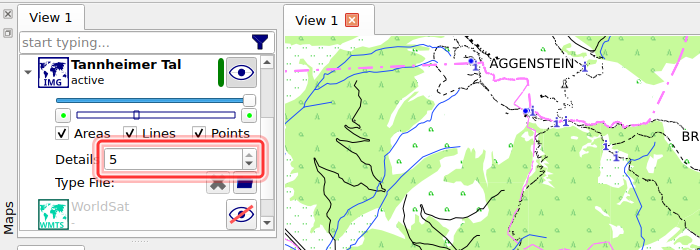
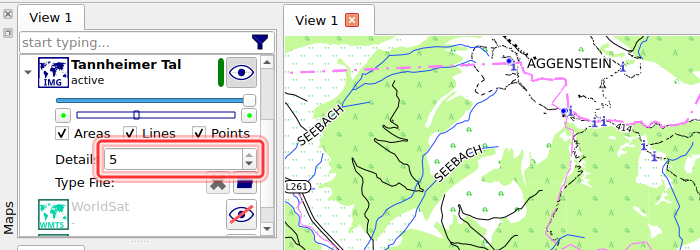
[QMS-1350] Garmin maps: short road names when zoomed out

Changed region(s): [[0.03, 0.14, 1.0, 1.0], [0.99, 0.364, 1.0, 0.42], [0.93, 0.364, 0.96, 0.42]]

diff --git a/src/qmapshack/map/CMapIMG.cpp b/src/qmapshack/map/CMapIMG.cpp
@@ -44,8 +44,10 @@
 #undef DEBUG_SHOW_SECTION_BORDERS
 #undef DEBUG_SHOW_SUBDIV_BORDERS
 
-/// Maximum map scale [m/px] at which street / way names are still drawn.
-constexpr qreal kStreetNameThreshold = 5.0;
+/** Map scale [m/px] from which line labels are drawn short, without prefix and suffix, as BaseCamp does. */
+constexpr qreal kShortLabelThreshold = 5.0;
+/** Maximum map scale [m/px] at which line labels are drawn; BaseCamp still draws them at its 5 km scale bar. */
+constexpr qreal kLineLabelThreshold = 50.0;
 /// Largest bend [deg] between two segments a street name may follow.
 constexpr qreal kLabelMaxBend = 30.0;
 /// Street names this close [deg] to vertical keep the direction of their line; all others read left to right.
@@ -1110,7 +1112,7 @@ void CMapIMG::drawPolylines(BLContext& ctx, polytype_t& lines, const QPointF& sc
             v1 = v2;
           }
 
-          if (scale.x() < kStreetNameThreshold && property.labelType != CGarminTyp::eNone) {
+          if (scale.x() < kLineLabelThreshold && property.labelType != CGarminTyp::eNone) {
             QFont f(font);
             switch (property.labelType) {
               case CGarminTyp::eSmall:
@@ -1122,7 +1124,8 @@ void CMapIMG::drawPolylines(BLContext& ctx, polytype_t& lines, const QPointF& sc
               default:;
             }
 
-            collectText(item, poly, f, night ? property.colorLabelNight : property.colorLabelDay);
+            collectText(item, poly, f, night ? property.colorLabelNight : property.colorLabelDay,
+                        scale.x() >= kShortLabelThreshold);
           }
 
           // Lay the pixmap along each straight segment of the polyline. The arc-length
@@ -1210,7 +1213,7 @@ void CMapIMG::drawLine(BLContext& ctx, CGarminPolygon& l, bool stroke, const CGa
 
   map->convertRad2Px(poly);
 
-  if (scale.x() < kStreetNameThreshold && property.labelType != CGarminTyp::eNone) {
+  if (scale.x() < kLineLabelThreshold && property.labelType != CGarminTyp::eNone) {
     QFont f(font);
     switch (property.labelType) {
       case CGarminTyp::eSmall:
@@ -1222,7 +1225,8 @@ void CMapIMG::drawLine(BLContext& ctx, CGarminPolygon& l, bool stroke, const CGa
       default:;
     }
 
-    collectText(l, poly, f, CMainWindow::self().isNight() ? property.colorLabelNight : property.colorLabelDay);
+    collectText(l, poly, f, CMainWindow::self().isNight() ? property.colorLabelNight : property.colorLabelDay,
+                scale.x() >= kShortLabelThreshold);
   }
 
   if (stroke) {
@@ -1239,10 +1243,16 @@ void CMapIMG::drawLine(BLContext& ctx, const CGarminPolygon& l) {
   ctx.stroke_polyline(toBLPoints(poly), static_cast<size_t>(poly.size()));
 }
 
-void CMapIMG::collectText(const CGarminPolygon& item, const QPolygonF& line, const QFont& font, const QColor& color) {
+void CMapIMG::collectText(const CGarminPolygon& item, const QPolygonF& line, const QFont& font, const QColor& color,
+                          bool shortName) {
+  // BaseCamp leaves minor contours and boundaries unlabelled zoomed out
+  if (shortName && (item.type == 0x20 || item.type == 0x1c)) {
+    return;
+  }
+
   QString str;
   if (item.hasLabel()) {
-    str = item.getLabelText();
+    str = shortName ? item.getShortText() : item.getLabelText();
   }
 
   if (str.isEmpty()) {

diff --git a/src/qmapshack/map/garmin/test/test_CGarminImg.cpp b/src/qmapshack/map/garmin/test/test_CGarminImg.cpp
@@ -53,6 +53,9 @@ class test_CGarminImg : public QObject {
   void displayText();
   void shieldCode_data();
   void shieldCode();
+  void shortText_data();
+  void shortText();
+  void shortTextOfLine();
   void splitHeight_data();
   void splitHeight();
   void typStyles();
@@ -419,6 +422,37 @@ void test_CGarminImg::displayText() {
   QFETCH(QString, label);
   QFETCH(QString, text);
   QCOMPARE(IGarminStrTbl::displayText(label), text);
+}
+
+void test_CGarminImg::shortText_data() {
+  QTest::addColumn<QString>("label");
+  QTest::addColumn<QString>("text");
+
+  // As BaseCamp 4.7.5 shows these labels zoomed out.
+  QTest::newRow("plain") << "Plain Road" << "Plain Road";
+  QTest::newRow("prefix 0x1b") << unescape("Rue d'~[0x1b]Alsace") << "Alsace";
+  QTest::newRow("prefix 0x1e") << unescape("Rue de la~[0x1e]Concorde") << "Concorde";
+  QTest::newRow("suffix 0x1c") << unescape("Haupt~[0x1c]strasse") << "Haupt";
+  QTest::newRow("suffix 0x1f") << unescape("Main~[0x1f]Street") << "Main";
+  QTest::newRow("both, blanks") << unescape("West~[0x1e]Lincoln~[0x1f]Road") << "Lincoln";
+  QTest::newRow("both") << unescape("Carrer d'~[0x1b]Europa~[0x1c]kalea") << "Europa";
+  QTest::newRow("0x1d") << unescape("Alpha~[0x1d]Beta") << "Alpha";
+  QTest::newRow("shield") << unescape("~[0x04]A7") << "A7";
+  QTest::newRow("empty core") << unescape("~[0x1f]Street") << "Street";
+}
+
+void test_CGarminImg::shortText() {
+  QFETCH(QString, label);
+  QFETCH(QString, text);
+  QCOMPARE(IGarminStrTbl::shortText(label), text);
+}
+
+void test_CGarminImg::shortTextOfLine() {
+  CGarminPolygon line;
+  line.type = 0x06;
+  QCOMPARE(line.getShortText(), QString());
+  line.labels << unescape("West~[0x1e]Lincoln~[0x1f]Road") << "Second";
+  QCOMPARE(line.getShortText(), QString("Lincoln"));
 }
 
 void test_CGarminImg::shieldCode_data() {

diff --git a/src/qmapshack/map/garmin/IGarminStrTbl.cpp b/src/qmapshack/map/garmin/IGarminStrTbl.cpp
@@ -200,6 +200,32 @@ QString IGarminStrTbl::displayText(const QString& label) {
   return text;
 }
 
+QString IGarminStrTbl::shortText(const QString& label) {
+  const QString text = label.left(label.indexOf(QChar(0x1d)));
+  // mkgmap writes at most one prefix and one suffix marker; the core lies between them
+  qsizetype start = 0;
+  for (qsizetype i = 0; i < text.size(); ++i) {
+    const char16_t c = text[i].unicode();
+    if (c == 0x1c || c == 0x1f) {
+      break;
+    }
+    if (c == 0x1b || c == 0x1e) {
+      start = i + 1;
+    }
+  }
+  qsizetype end = text.size();
+  for (qsizetype i = start; i < text.size(); ++i) {
+    const char16_t c = text[i].unicode();
+    if (c == 0x1c || c == 0x1f) {
+      end = i;
+      break;
+    }
+  }
+  const QString core = displayText(text.mid(start, end - start));
+  // markers around nothing: keep the whole label rather than none
+  return core.trimmed().isEmpty() ? displayText(label).trimmed() : core;
+}
+
 quint8 IGarminStrTbl::shieldCode(const QString& label) {
   if (label.isEmpty()) {
     return 0;

diff --git a/src/qmapshack/map/CMapIMG.h b/src/qmapshack/map/CMapIMG.h
@@ -88,7 +88,8 @@ class CMapIMG : public IMap {
                 const QFont& font, const QPointF& scale);
   void drawLine(BLContext& ctx, const CGarminPolygon& l);
 
-  void collectText(const CGarminPolygon& item, const QPolygonF& line, const QFont& font, const QColor& color);
+  void collectText(const CGarminPolygon& item, const QPolygonF& line, const QFont& font, const QColor& color,
+                   bool shortName);
 
   void getInfoPoints(const pointtype_t& points, const QPoint& pt, QMultiMap<QString, QString>& dict) const;
   void getInfoPolylines(const QPoint& pt, QMultiMap<QString, QString>& dict) const;

diff --git a/src/qmapshack/map/garmin/IGarminStrTbl.h b/src/qmapshack/map/garmin/IGarminStrTbl.h
@@ -69,6 +69,11 @@ class IGarminStrTbl : public QObject {
      @return 0x01 interstate, 0x02 shield, 0x03 round, 0x04 hbox, 0x05 box, 0x06 oval, 0 none
    */
   static quint8 shieldCode(const QString& label);
+  /**
+     @brief The label as BaseCamp shows it zoomed out: only the part between prefix (0x1b/0x1e) and suffix (0x1c/0x1f)
+            marker, "Rue de la Concorde" as "Concorde". A label without markers stays whole.
+   */
+  static QString shortText(const QString& label);
   /** displayText() of each label, joined by a blank. */
   static QString displayText(const QStringList& labels);
 

diff --git a/src/qmapshack/map/garmin/CGarminPolygon.cpp b/src/qmapshack/map/garmin/CGarminPolygon.cpp
@@ -414,6 +414,25 @@ QString CGarminPolygon::getLabelText() const {
   return str;
 }
 
+QString CGarminPolygon::getShortText() const {
+  if (labels.isEmpty()) {
+    return QString();
+  }
+  switch (type) {
+    case 0x20:
+    case 0x21:
+    case 0x22:
+    case 0x23:
+    case 0x24:
+    case 0x25:
+      // contours: their height
+      return getLabelText();
+
+    default:
+      return IGarminStrTbl::shortText(labels.first()).simplified();
+  }
+}
+
 QString CGarminPolygon::getInfoText() const {
   if (labels.size() < 2) {
     return getLabelText();

diff --git a/src/qmapshack/map/garmin/CGarminPolygon.h b/src/qmapshack/map/garmin/CGarminPolygon.h
@@ -45,6 +45,8 @@ class CGarminPolygon {
 
   /** The first label as drawn on the map, a contour's height converted from feet. */
   QString getLabelText() const;
+  /** The first label without prefix and suffix, as drawn zoomed out; a contour's height. */
+  QString getShortText() const;
   /** All labels, as listed in the map's info: a road can have up to 4. */
   QString getInfoText() const;
 

diff --git a/.notes/QMS-1350-short-road-names-plan.md b/.notes/QMS-1350-short-road-names-plan.md
@@ -1,0 +1,123 @@
+# QMS-1350 — hide prefix and suffix of road names when zoomed out
+
+Ticket: QMS-#1350, parent QMS-#1343. Branch `QMS-1350` from `dev` at `6feba1acf`. Development ticket: no
+`changelog.txt` line; PR to `dev` only when complete. Separator facts: `QMS-1347-label-decoding-plan.md`, "What the
+separators do".
+
+## State (2026-11-27)
+
+Decided (2026-11-27): line labels are drawn up to 50 m/px (BaseCamp: still at the 5 km bar); from 5 m/px on as short
+names. Below 5 m/px unchanged.
+
+Done (2026-11-27): committed as `[QMS-1350] Garmin maps: short road names when zoomed out`. Remaining:
+3. The user pushes (`git push` is refused to Claude): `git -C ~/projects/qmapshack push -u origin QMS-1350`.
+4. `gh pr create -R Maproom/qmapshack -B dev -H kiozen:QMS-1350 --title "[QMS-1350] Garmin maps: hide prefix and
+   suffix of road names when zoomed out" --body-file <the PR body below>`.
+5. After the merge: close QMS-#1350, fast-forward local `dev` to `upstream/dev`.
+Test maps: `make_fixtures.py <mkgmap r4924 jar> <dir>`; the session's were in a scratchpad that may be gone.
+
+What was done:
+- `IGarminStrTbl::shortText()`: after the last prefix marker (0x1b/0x1e) before a suffix marker, up to the next suffix
+  marker (0x1c/0x1f), through `displayText()`. `CGarminPolygon::getShortText()`: that of label 1, a contour's height.
+- `CMapIMG`: `kLineLabelThreshold` 50 m/px for line labels at all; from `kShortLabelThreshold` 5 m/px `collectText()`
+  takes the short text and skips minor contours 0x20 and boundaries 0x1c (unlabelled in BaseCamp zoomed out).
+- Verified: `test_CGarminImg` 58/58 (9 `shortText` rows = BaseCamp's results), `ctest` 5/5, Clang-Tidy/Clazy clean but
+  `#pragma pack`. GUI (separator map): full names at 300 m, short at 500 m and 1 km.
+- Documentation: `quickstart-vector-map-detail-more.png` changed (the Tannheimer map gains SEEBACH, L261, a contour
+  height at that zoom); taken again and published in de/en/es/it (`shots.py -o doc/<l>/images/_work replay --only`,
+  `publish --only`). The page text is about Details and stays.
+
+## BaseCamp 4.7.5: scale, not map level
+
+Two test maps, same four roads (`Rue de la~[0x1e]Concorde`, `Main~[0x1f]Street`, `West~[0x1e]Lincoln~[0x1f]Road`,
+`Plain Road`, type 0x04), levels A 24/22/20/18, B 24/23/22/21:
+
+| Scale bar | A | B |
+|---|---|---|
+| 200 m | – | full |
+| 300 m | full | full |
+| 500 m | short | short |
+| 700 m, 1 km, 1.5 km | short | short |
+| 2 km, 3 km | – | short |
+| 5 km | – | short, two of four (overlap) |
+
+In B the roads look the same at 500 m and 300 m (same level), the names differ: the switch follows the scale. The bar
+is about 100 px, so 300 m ≈ 3 m/px, 500 m ≈ 5 m/px.
+
+## QMapShack
+
+- Zoom steps (`IDrawContext::scalesDefault`): … 2, 3, 5, 7, 10 … m/px.
+- Road names only below `kStreetNameThreshold` = 5 m/px (`CMapIMG.cpp:47-48`): full names up to 3 m/px, none from
+  5 m/px. That is exactly where BaseCamp switches to short names, so the short names need road names drawn beyond the
+  threshold.
+
+## BaseCamp: which lines it labels zoomed out
+
+Test map with one labelled line per type, 500 m to 1.5 km: motorway 0x01, residential 0x06, trail 0x16, stream
+0x18 labelled; contours 0x22 ("914") and 0x21 ("610") labelled; minor contour 0x20 and boundary 0x1c not labelled.
+QMapShack keeps one threshold for all lines.
+
+## Review and measurement (2026-11-27)
+
+- Review: type filter beyond 5 m/px (0x20, 0x1c); empty core falls back to the whole label; `kStreetNameThreshold`
+  renamed `kShortLabelThreshold`; doxygen comments; tests for an empty core and `getShortText()` (contours not: no
+  `IUnit` in the test). Multiple prefixes cannot occur: `PrefixSuffixFilter.applyPrefixes` returns at the first match.
+- Draw time, map thread, OpenFietsMap Benelux over Amsterdam (`IDrawContext::run()` timer enabled locally, not
+  committed): index 14 old 45-65 ms / new 48-73 ms; index 16 old 107-226 ms / new 119-161 ms. Neither this map nor the
+  Freizeitkarte (names only at the finest level) has line labels at coarse levels, so nothing is added there.
+- After the fixes: `test_CGarminImg` 60/60, `ctest` 5/5, Clang-Tidy/Clazy clean but `#pragma pack`; the published
+  detail-more images equal fresh renders in de/en/es/it.
+
+## PR body
+
+````
+<!---
+Note:
+
+- Lines starting with ### are section headers. Do not delete any of the sections.
+
+- Lines starting with the label  [comment]: are instructions on how to fill in the section and will not be shown. Just add your answer below.
+
+-->
+
+### What is the linked issue for this pull request:
+[comment]: # (Add the ticket number behind QMS-# )
+
+QMS-#1350
+
+### What you have done:
+[comment]: # (Describe roughly.)
+
+- Line labels are drawn up to 50 m/px instead of 5 m/px. From 5 m/px on they are short, as in BaseCamp: only the part
+  between the prefix and suffix separators mkgmap writes ("Rue de la Concorde" → "Concorde", "West Lincoln Road" →
+  "Lincoln"). BaseCamp switches by scale, not by map level, between its 300 m and 500 m scale bar.
+- Zoomed out, minor contours and boundaries stay unlabelled, as in BaseCamp.
+- Labels are only drawn where the map has them: the Freizeitkarte and OpenFietsMap carry no line labels at coarse
+  levels, so they look as before; their draw times stay the same.
+- The image quickstart-vector-map-detail-more shows the new labels; taken again in de/en/es/it.
+
+### Steps to perform a simple smoke test:
+[comment]: # (List the steps.)
+
+1. python3 src/qmapshack/map/garmin/test/make_fixtures.py <path>/mkgmap.jar <dir>   (mkgmap r4924)
+2. QMS_IMG_FIXTURES=<dir> ctest -R test_CGarminImg
+3. Open <dir>/labels8.img: at 300 m the roads read "Rue de la Concorde", "Main Street"; zoomed out to 500 m and 1 km
+   "Concorde", "Main".
+4. Open doc/shots/fixtures/default/maps/Tannheimer_Tal.img with Details 5 zoomed out: stream and road labels appear.
+
+### Does the code comply to the coding rules and naming conventions [Coding Guideline](https://github.com/Maproom/qmapshack/blob/dev/README_CODING.md):
+
+- [x] yes. Clang-Tidy and Clazy on the changed files: only the existing #pragma pack warning from CGarminImg.h.
+
+### Is every user facing string in a tr() macro?
+
+- [x] yes, no new user facing strings.
+
+### Did you check if the documentation (`doc/`) needs changes, and make them? Check the pages and images that show what you changed.
+
+- [x] yes: quickstart-vector-map-detail-more.png taken again in de/en/es/it; the page text (Details) stays. The other 112 English images render identical.
+
+### Did you add the ticket number and title into the changelog? Keep the numeric order in each release block.
+
+- [ ] no: development ticket; QMS-#1343 gets the line when it is done.
+````
